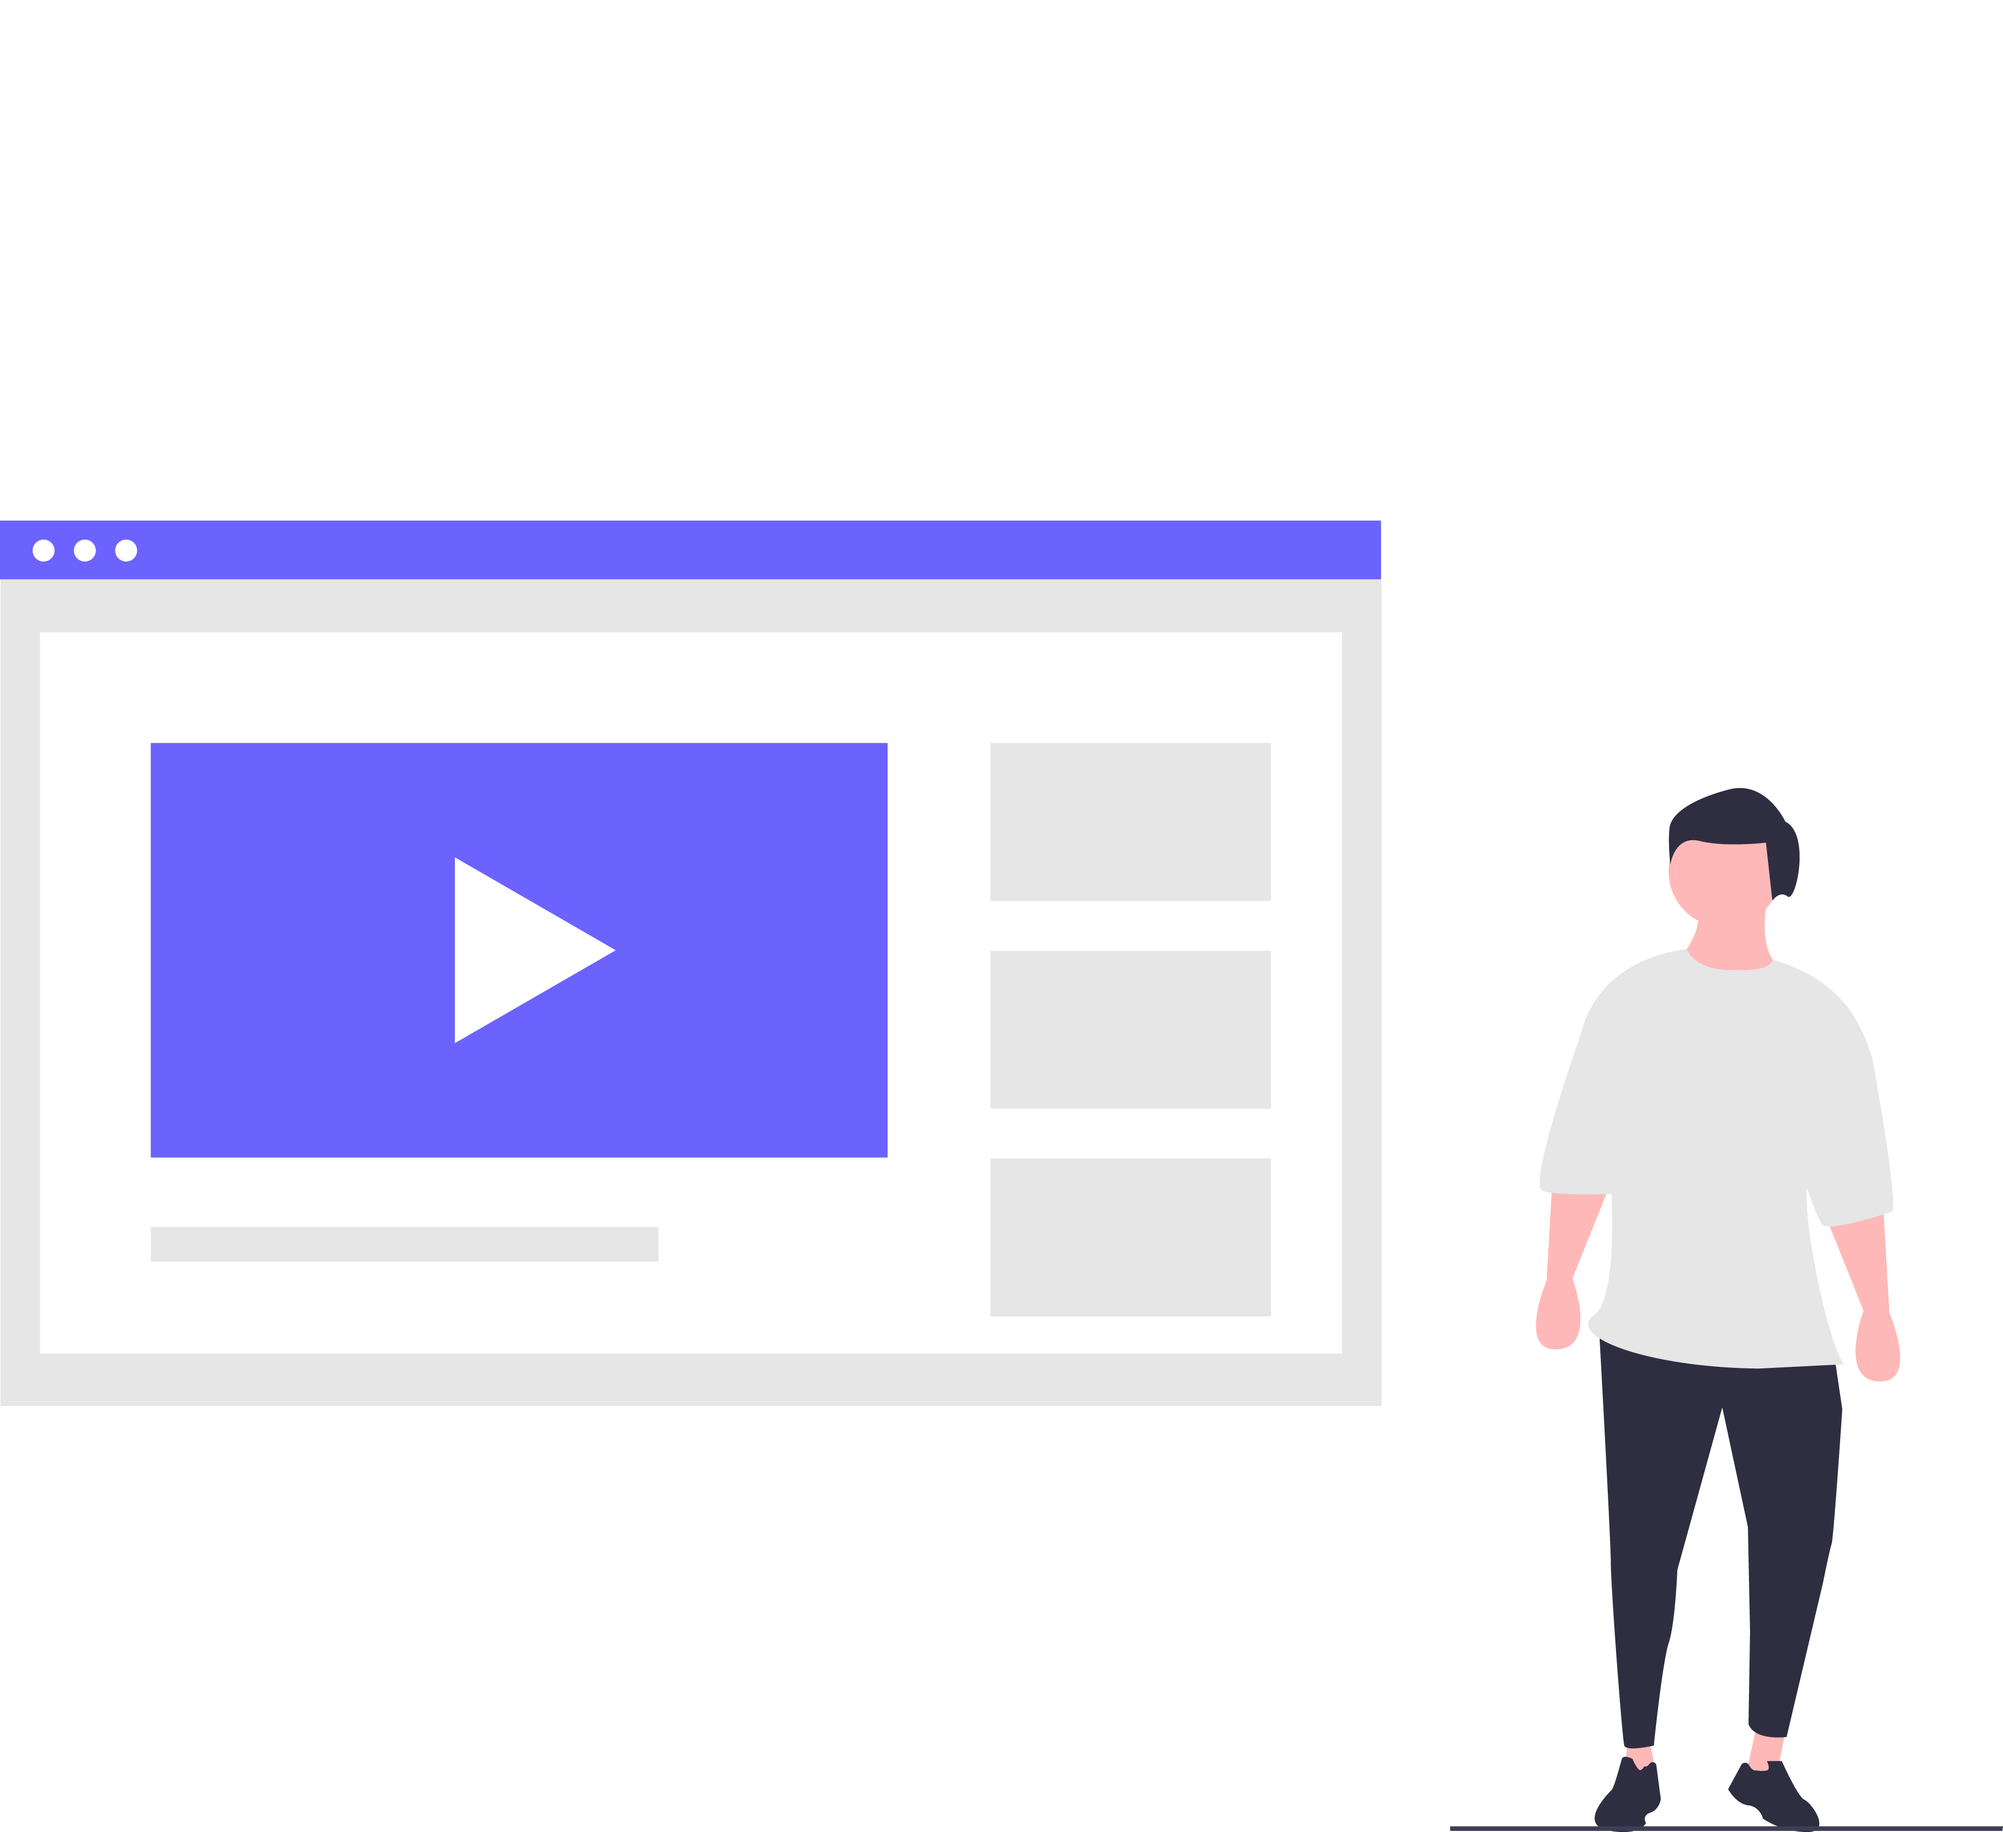
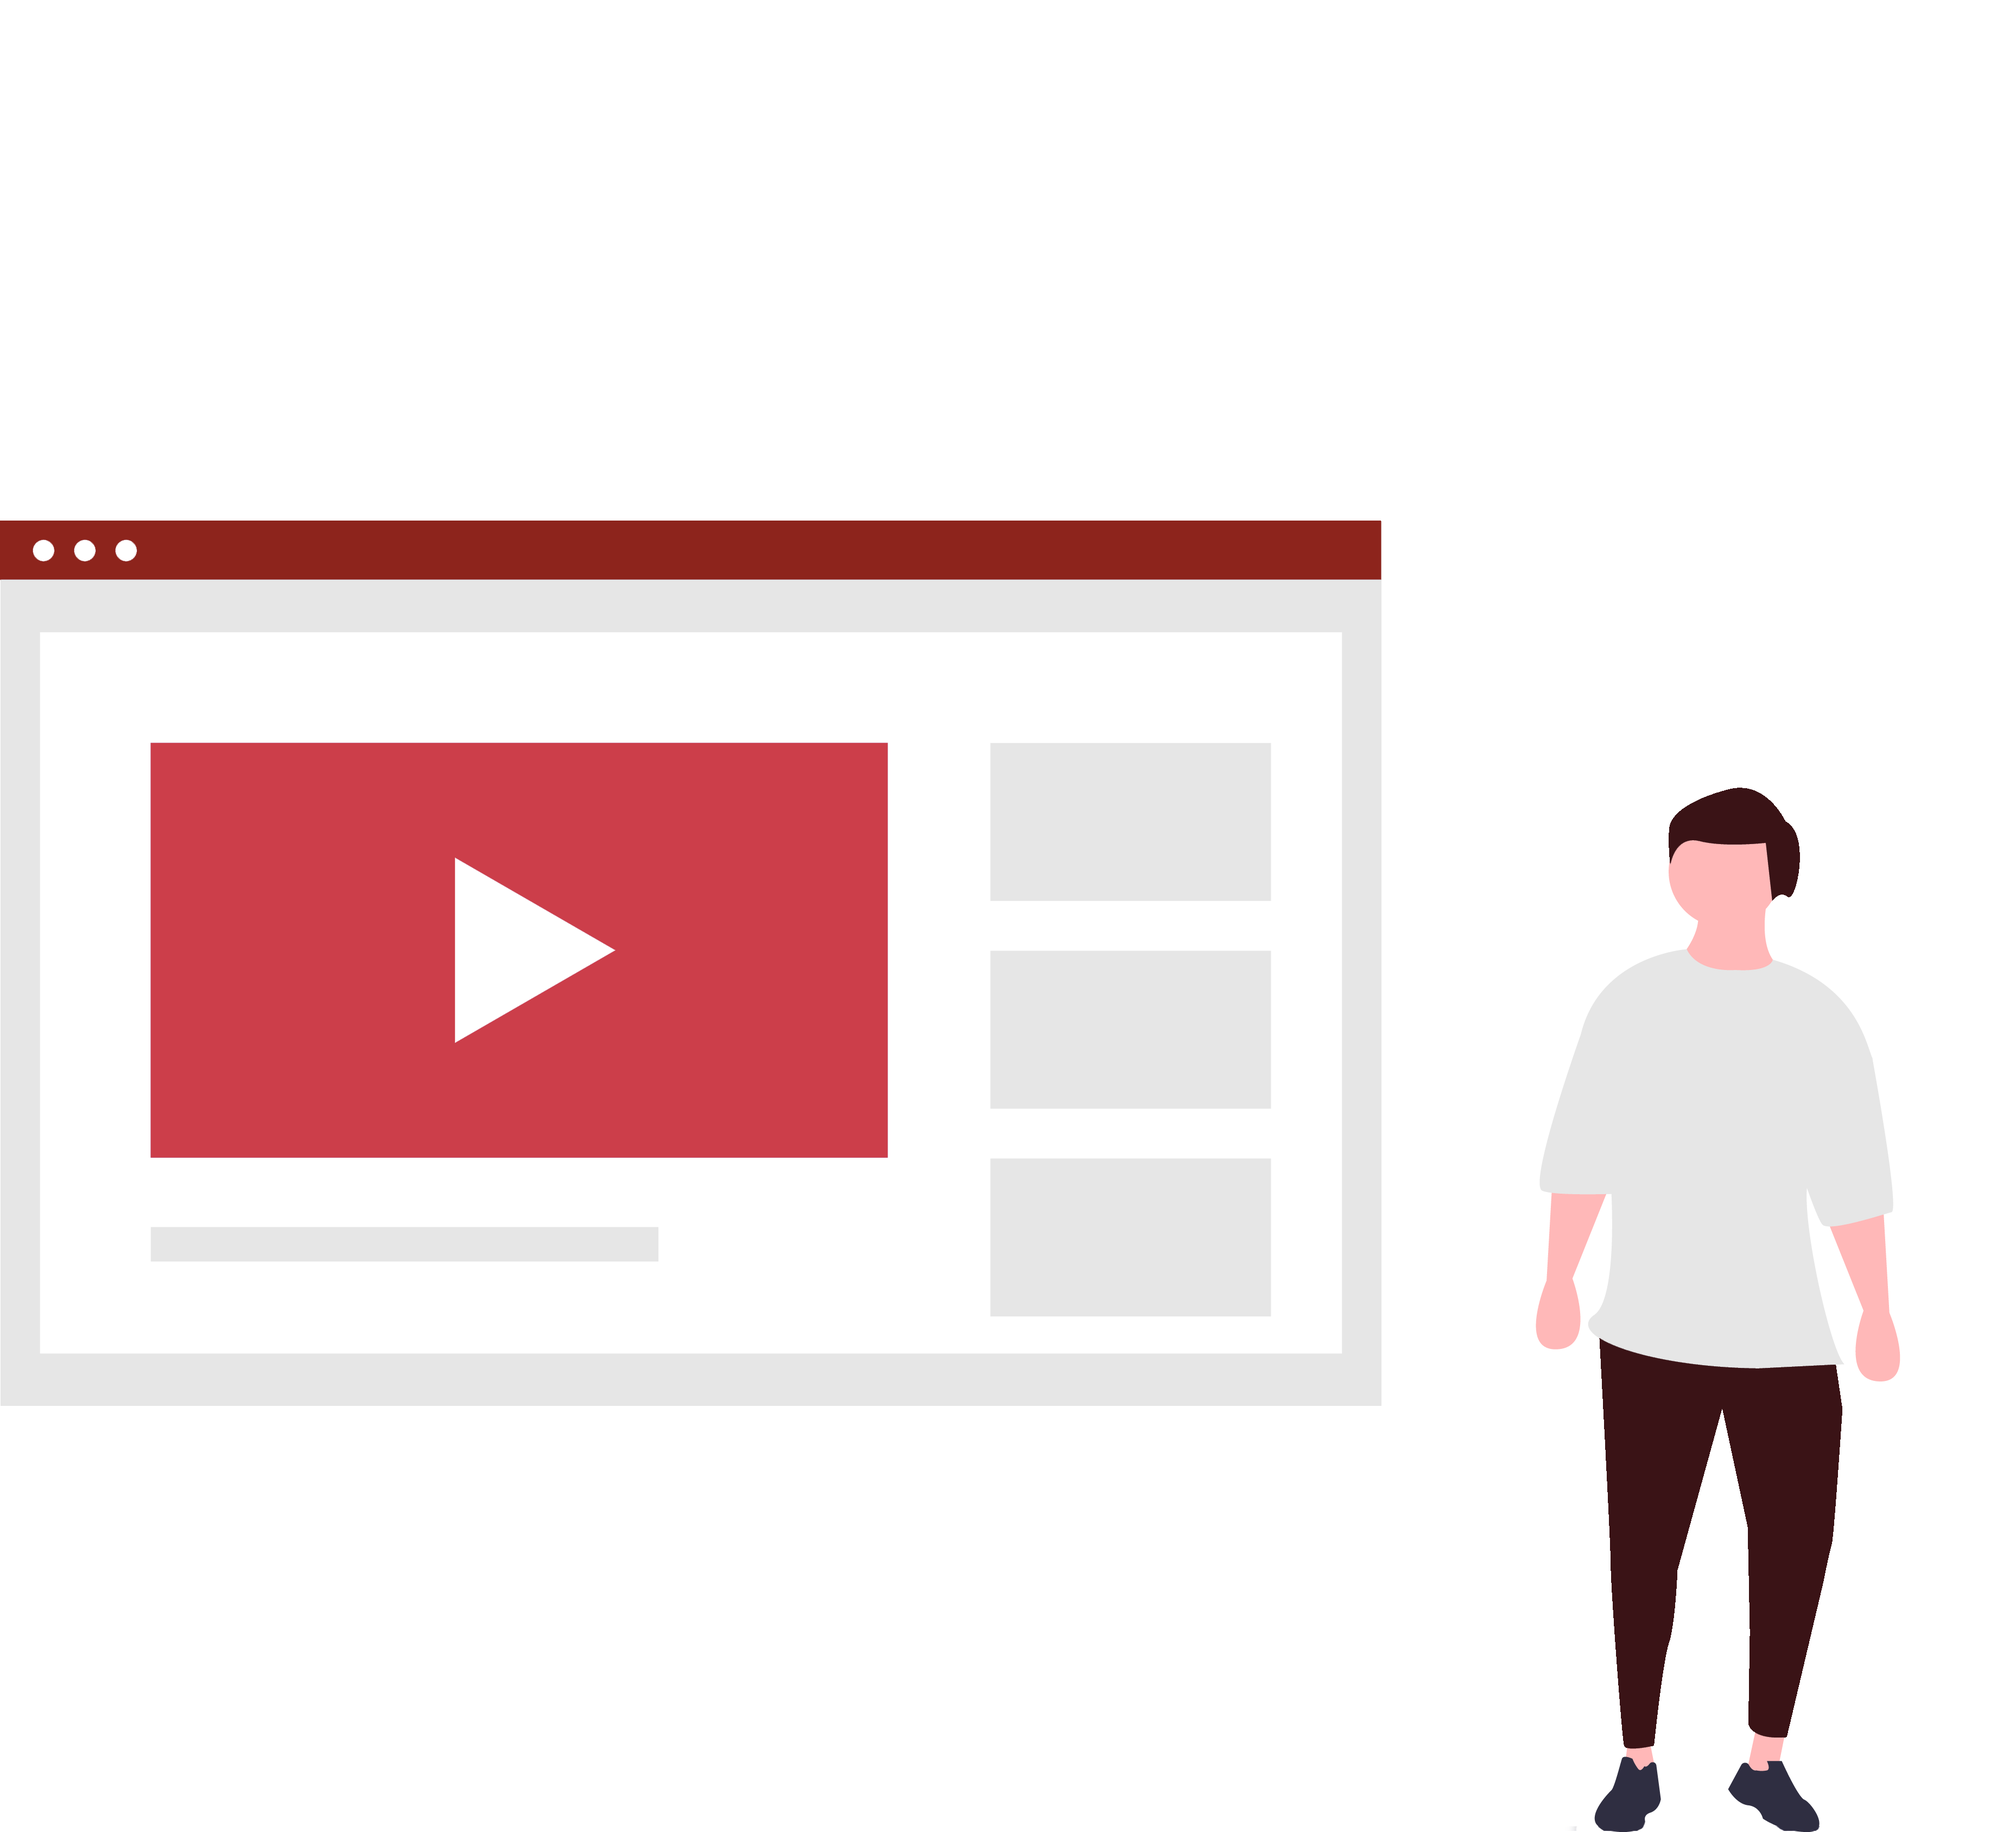
Update colors v1.1

diff --git a/index.html b/index.html
@@ -11,6 +11,7 @@
     <link rel="stylesheet" href="css/hover-menu.css"> <!-- CSS :hover menu -->
     <link rel="stylesheet" href="css/center-one.css"> <!-- CSS center one -->
     <link rel="stylesheet" href="css/menu-center.css"> <!-- CSS menu center -->
+    <script id="dsq-count-scr" src="//adventuregames-site.disqus.com/count.js" async></script>
 </head>
 <body>
     <nav id="menu">
@@ -39,15 +40,34 @@
         <h1>Qual é o nosso conteúdo?</h1>
         <p>
             Ao contrario do que a maioria pensa... Não temos só games de conteúdo. Gravamos e editamos tambem:
-            <ul>
+            <ul id="list-center">
                 <li>Vlogs</li>
                 <li>Tuturiais</li>
                 <li>Eventos</li>
                 <li>Bastidores</li>
                 <li>Respondendo Comentários</li>
-                <li><a target="_blank" href="https://www.youtube.com/channel/UCN9OqVIJ_jlvuJndF2gSiiQ/playlists?view_as=subscriber">Ver Todos os conteudos.</a></li>
+                <li><a class="btnHover" target="_blank" href="https://www.youtube.com/channel/UCN9OqVIJ_jlvuJndF2gSiiQ/playlists?view_as=subscriber">Ver Todos os conteudos.</a></li>
             </ul>
         </p>
     </section>
+    <div id="disqus_thread"></div>
+    <script>
+        /**
+        *  RECOMMENDED CONFIGURATION VARIABLES: EDIT AND UNCOMMENT THE SECTION BELOW TO INSERT DYNAMIC VALUES FROM YOUR PLATFORM OR CMS.
+        *  LEARN WHY DEFINING THESE VARIABLES IS IMPORTANT: https://disqus.com/admin/universalcode/#configuration-variables    */
+        /*
+        var disqus_config = function () {
+        this.page.url = PAGE_URL;  // Replace PAGE_URL with your page's canonical URL variable
+        this.page.identifier = PAGE_IDENTIFIER; // Replace PAGE_IDENTIFIER with your page's unique identifier variable
+        };
+        */
+        (function() { // DON'T EDIT BELOW THIS LINE
+        var d = document, s = d.createElement('script');
+        s.src = 'https://adventuregames-site.disqus.com/embed.js';
+        s.setAttribute('data-timestamp', +new Date());
+        (d.head || d.body).appendChild(s);
+        })();
+    </script>
+<noscript>Please enable JavaScript to view the <a href="https://disqus.com/?ref_noscript">comments powered by Disqus.</a></noscript>
 </body>
 </html>

diff --git a/css/hover-menu.css b/css/hover-menu.css
@@ -19,9 +19,14 @@ body {
     letter-spacing: 0;
 }
 
+.btnHover:hover {
+  color: #8d241c;
+}
+
 .btnHover:hover,
 .btnHover:active {
   letter-spacing: 5px;
+
 }
 
 .btnHover:after,
@@ -40,9 +45,7 @@ body {
 .btnHover:hover:after,
 .btnHover:hover:before {
   backface-visibility: hidden;
-  border-color: #fff;
-  transition: width 350ms ease-in-out;
-  width: 70%;
+  border-color: rgb(255, 255, 255);
 }
 
 .btnHover:hover:before {

diff --git a/css/settings.css b/css/settings.css
@@ -15,10 +15,10 @@ body {
     background-repeat: no-repeat;
 }
 a {
-    color: rgb(112, 99, 255);
+    color: #cc3e4a;
 }
 ::selection {
-    background-color: rgb(129, 108, 108);
-    color: white;
+    background-color: #8d241c2c;
+    color: #8d241c;
 }
 /* Roots */

diff --git a/css/center-one.css b/css/center-one.css
@@ -23,3 +23,7 @@
     pointer-events: none;
     float: left;
 }
+
+#list-center {
+    font-family: Canada;
+}

diff --git a/css/menu.css b/css/menu.css
@@ -19,5 +19,5 @@
     font-family: Century;
 }
 #menu ul li a:hover {
-    
+    color: #8d241c;
 }
